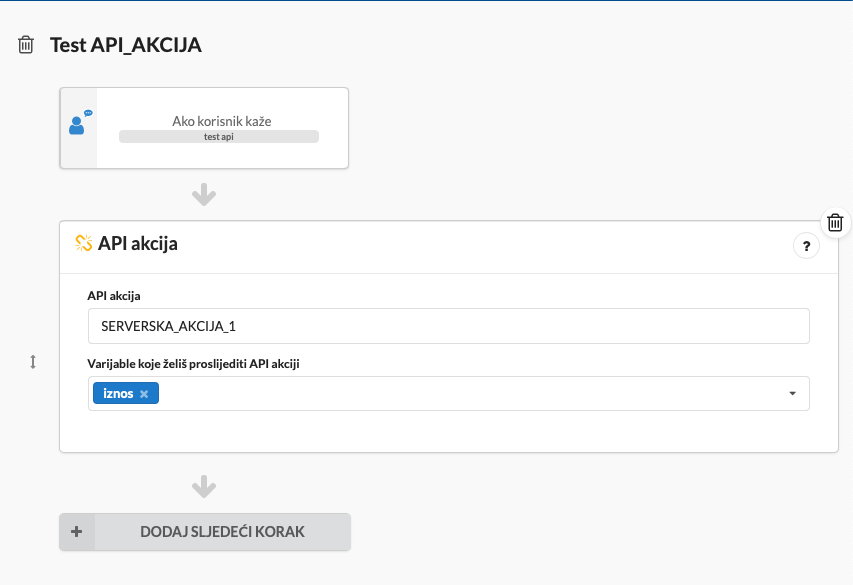
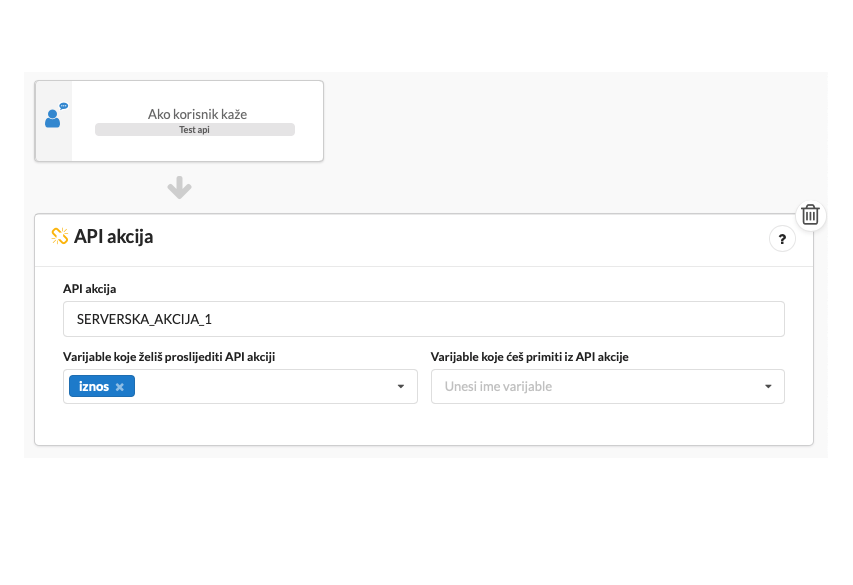
API action

diff --git a/source/index.html.md b/source/index.html.md
@@ -990,7 +990,9 @@ JSON objekte možete validirati prema JSON schemi na [https://www.jsonschemavali
 ```
 
 Api akcija u principu ne služi za prikaz sadržaja korisniku, već se koristi kao oznaka onome tko koristi Erato API da je potrebno nešto učiniti u tom trenutku, obično odraditi neku akciju na serveru.
-U tom elementu moguće je poslati jednu ili više varijabli dobivenih u dijalogu ranije koja se može koristiti za izvršenje neke akcije na serveru.
+U tom elementu je kroz sučelje moguće je proslijediti jednu ili više varijabli dobivenih ranije u dijalogu, a koja se može koristiti za izvršenje neke akcije na serveru.
+
+Također, moguće je definirati opcionalne izlazne varijable koje će ta API akcija vratiti nazad u dijalog. Vraćanje varijable natrag u dijalog radi se tako da nakon što vanjski sustav izvrši željenu API akciju i dobije vrijednosti koje želi spremiti u varijablu, pozove Erato API metodu [continue](#api-chat-continue) u kojoj će popuniti parametar `varijables-output`, a u `messages` treba poslati povijest koja na posljednjem mjestu sadrži taj dobiveni element API akcije. Ta će metoda tada vratiti nastavak dijalog od tog elementa.
 
 atribut | vrijednost
 --------- | ------- 
